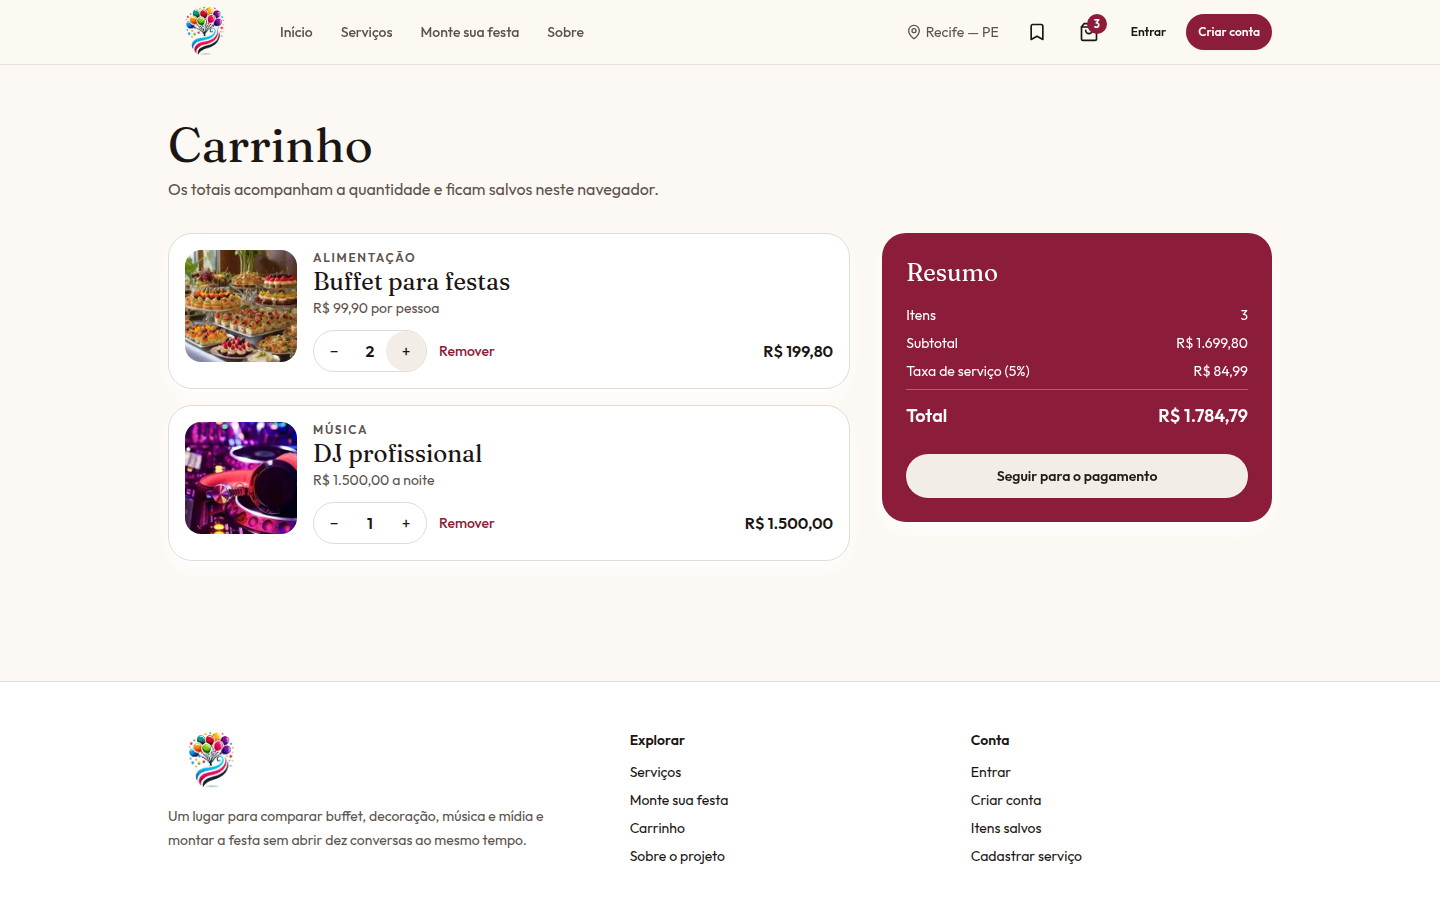
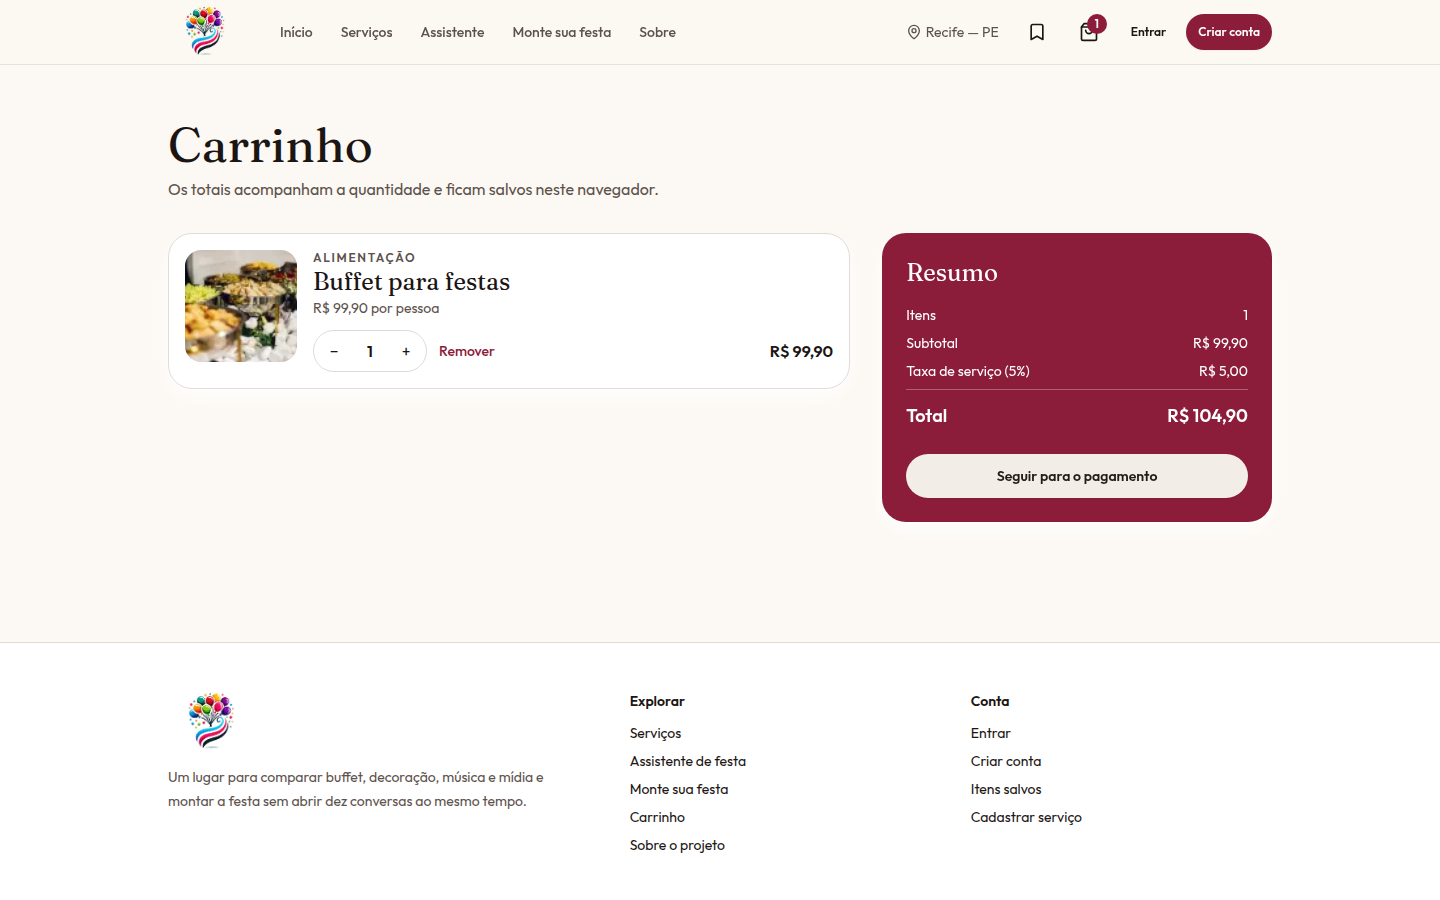
Troca as fotos do catálogo por imagens livres em WebP.
Cada serviço usa uma foto compatível com o que oferece, com crédito e licença em docs/image-credits.md. Cards, página do produto e o assistente leem as mesmas imagens.

diff --git a/src/data/catalog.ts b/src/data/catalog.ts
@@ -1,30 +1,23 @@
 import type { StaticImageData } from 'next/image';
-import {
-  Alimentacao,
-  Musica,
-  Musica2,
-  Decoracao,
-  Midia,
-  MidiaCard,
-  BuffetCard,
-  BuffetCard2,
-  BuffetCard3,
-  BuffetCard4,
-  BuffetCart2,
-  DoceCard,
-  DoceCard2,
-  SalgadoCard,
-  SalgadoCard2,
-  BarmanCard,
-  BarmanCard2,
-  HeinekenCard,
-  DJCard,
-  PlayCard,
-  PhotoCard,
-  ImgBalloons,
-  PartyHome,
-  ImgFesta
-} from 'assets';
+import buffet from '../assets/catalog/buffet.webp';
+import buffetTabua from '../assets/catalog/buffet-tabua.webp';
+import buffetPremium from '../assets/catalog/buffet-premium.webp';
+import sobremesa from '../assets/catalog/sobremesa.webp';
+import doces from '../assets/catalog/doces.webp';
+import docesCupcake from '../assets/catalog/doces-cupcake.webp';
+import salgados from '../assets/catalog/salgados.webp';
+import barman from '../assets/catalog/barman.webp';
+import cerveja from '../assets/catalog/cerveja.webp';
+import dj from '../assets/catalog/dj.webp';
+import banda from '../assets/catalog/banda.webp';
+import ambiente from '../assets/catalog/ambiente.webp';
+import karaoke from '../assets/catalog/karaoke.webp';
+import flores from '../assets/catalog/flores.webp';
+import baloes from '../assets/catalog/baloes.webp';
+import salao from '../assets/catalog/salao.webp';
+import foto from '../assets/catalog/foto.webp';
+import video from '../assets/catalog/video.webp';
+import social from '../assets/catalog/social.webp';
 import { normalizeText } from 'lib/format';
 
 export type CategoryId = 'alimentacao' | 'musica' | 'decoracao' | 'midia';
@@ -59,28 +52,28 @@ export const categories: Category[] = [
     id: 'alimentacao',
     label: 'Alimentação',
     href: '/subcategoria-alimentacao',
-    image: Alimentacao,
+    image: buffet,
     blurb: 'Buffet, doces, salgados e bar para o tamanho da sua mesa.'
   },
   {
     id: 'musica',
     label: 'Música',
     href: '/subcategoria-musica',
-    image: Musica,
+    image: dj,
     blurb: 'DJ, banda e som ambiente com equipamento incluso.'
   },
   {
     id: 'decoracao',
     label: 'Decoração',
     href: '/subcategoria-decoracao',
-    image: Decoracao,
+    image: salao,
     blurb: 'Flores, balões e ambientação no tom da festa.'
   },
   {
     id: 'midia',
     label: 'Mídia',
     href: '/subcategoria-midia',
-    image: Midia,
+    image: foto,
     blurb: 'Foto e filme para guardar a noite inteira.'
   }
 ];
@@ -98,8 +91,8 @@ export const products: Product[] = [
     unit: 'por pessoa',
     rating: 4.7,
     reviews: 32,
-    image: BuffetCard,
-    gallery: [BuffetCard, BuffetCard2, BuffetCard3, BuffetCard4],
+    image: buffet,
+    gallery: [buffet, buffetTabua, salgados],
     tags: ['Aniversário', 'Corporativo'],
     events: ['Aniversário', 'Corporativo', 'Confraternização']
   },
@@ -115,8 +108,8 @@ export const products: Product[] = [
     unit: 'por pessoa',
     rating: 4.9,
     reviews: 18,
-    image: BuffetCart2,
-    gallery: [BuffetCart2, BuffetCard3, BuffetCard2],
+    image: buffetPremium,
+    gallery: [buffetPremium, sobremesa],
     tags: ['Casamento'],
     events: ['Casamento', 'Aniversário']
   },
@@ -132,8 +125,8 @@ export const products: Product[] = [
     unit: 'o combo',
     rating: 4.6,
     reviews: 21,
-    image: DoceCard,
-    gallery: [DoceCard, DoceCard2],
+    image: doces,
+    gallery: [doces, docesCupcake],
     tags: ['Aniversário', 'Infantil'],
     events: ['Aniversário', 'Infantil']
   },
@@ -149,8 +142,8 @@ export const products: Product[] = [
     unit: 'o combo',
     rating: 4.5,
     reviews: 27,
-    image: SalgadoCard,
-    gallery: [SalgadoCard, SalgadoCard2],
+    image: salgados,
+    gallery: [salgados, buffetTabua],
     tags: ['Aniversário', 'Corporativo'],
     events: ['Aniversário', 'Corporativo']
   },
@@ -166,25 +159,25 @@ export const products: Product[] = [
     unit: 'por 4 horas',
     rating: 4.8,
     reviews: 14,
-    image: BarmanCard,
-    gallery: [BarmanCard, HeinekenCard],
+    image: barman,
+    gallery: [barman],
     tags: ['Aniversário', 'Casamento'],
     events: ['Aniversário', 'Casamento']
   },
   {
     id: 'caixas-heineken',
-    title: 'Caixas Heineken',
+    title: 'Cerveja gelada',
     category: 'alimentacao',
     categoryLabel: 'Alimentação',
     supplier: 'Gelada Recife',
     description:
-      'Caixa gelada para deixar na mesa ou no bar. Combina com o serviço de barman ou com um evento mais solto.',
+      'Cerveja servida gelada para a mesa ou para o bar. Combina com o serviço de barman ou com um evento mais solto.',
     price: 49.9,
-    unit: 'a caixa',
+    unit: 'o copo',
     rating: 4.4,
     reviews: 11,
-    image: HeinekenCard,
-    gallery: [HeinekenCard, BarmanCard2],
+    image: cerveja,
+    gallery: [cerveja],
     tags: ['Aniversário'],
     events: ['Aniversário', 'Confraternização']
   },
@@ -200,8 +193,8 @@ export const products: Product[] = [
     unit: 'a noite',
     rating: 4.8,
     reviews: 19,
-    image: DJCard,
-    gallery: [DJCard, Musica2],
+    image: dj,
+    gallery: [dj],
     tags: ['Aniversário', 'Casamento'],
     events: ['Aniversário', 'Casamento', 'Corporativo']
   },
@@ -217,8 +210,8 @@ export const products: Product[] = [
     unit: 'o set',
     rating: 4.9,
     reviews: 9,
-    image: Musica,
-    gallery: [Musica, Musica2],
+    image: banda,
+    gallery: [banda],
     tags: ['Casamento'],
     events: ['Casamento', 'Aniversário']
   },
@@ -234,8 +227,8 @@ export const products: Product[] = [
     unit: 'a festa',
     rating: 4.5,
     reviews: 8,
-    image: Musica2,
-    gallery: [Musica2, DJCard],
+    image: ambiente,
+    gallery: [ambiente],
     tags: ['Corporativo', 'Casamento'],
     events: ['Corporativo', 'Casamento']
   },
@@ -251,8 +244,8 @@ export const products: Product[] = [
     unit: 'por 4 horas',
     rating: 4.6,
     reviews: 12,
-    image: PlayCard,
-    gallery: [PlayCard, DJCard],
+    image: karaoke,
+    gallery: [karaoke],
     tags: ['Aniversário', 'Infantil'],
     events: ['Aniversário', 'Infantil']
   },
@@ -268,8 +261,8 @@ export const products: Product[] = [
     unit: 'o projeto',
     rating: 4.7,
     reviews: 16,
-    image: Decoracao,
-    gallery: [Decoracao, ImgBalloons],
+    image: flores,
+    gallery: [flores, salao],
     tags: ['Casamento', 'Aniversário'],
     events: ['Casamento', 'Aniversário']
   },
@@ -285,8 +278,8 @@ export const products: Product[] = [
     unit: 'o conjunto',
     rating: 4.6,
     reviews: 22,
-    image: ImgBalloons,
-    gallery: [ImgBalloons, Decoracao],
+    image: baloes,
+    gallery: [baloes],
     tags: ['Infantil', 'Aniversário'],
     events: ['Aniversário', 'Infantil']
   },
@@ -302,8 +295,8 @@ export const products: Product[] = [
     unit: 'o projeto',
     rating: 4.8,
     reviews: 7,
-    image: PartyHome,
-    gallery: [PartyHome, Decoracao, ImgBalloons],
+    image: salao,
+    gallery: [salao, flores, baloes],
     tags: ['Casamento', 'Corporativo'],
     events: ['Casamento', 'Corporativo']
   },
@@ -319,8 +312,8 @@ export const products: Product[] = [
     unit: 'a cobertura',
     rating: 4.9,
     reviews: 24,
-    image: PhotoCard,
-    gallery: [PhotoCard, ImgFesta],
+    image: foto,
+    gallery: [foto],
     tags: ['Casamento', 'Aniversário'],
     events: ['Casamento', 'Aniversário', 'Corporativo']
   },
@@ -336,8 +329,8 @@ export const products: Product[] = [
     unit: 'o filme',
     rating: 4.7,
     reviews: 10,
-    image: Midia,
-    gallery: [Midia, PhotoCard],
+    image: video,
+    gallery: [video],
     tags: ['Casamento'],
     events: ['Casamento', 'Aniversário']
   },
@@ -353,8 +346,8 @@ export const products: Product[] = [
     unit: 'o pacote',
     rating: 4.4,
     reviews: 13,
-    image: ImgFesta,
-    gallery: [ImgFesta, MidiaCard, PhotoCard],
+    image: social,
+    gallery: [social],
     tags: ['Aniversário', 'Corporativo'],
     events: ['Aniversário', 'Corporativo']
   }

diff --git a/src/app/create-party/page.tsx b/src/app/create-party/page.tsx
@@ -1,14 +1,8 @@
 'use client';
 
 import { useState } from 'react';
-import Image, { type StaticImageData } from 'next/image';
-import {
-  BuffetCard,
-  DJCard,
-  Decoracao,
-  ImgFesta,
-  PhotoCard
-} from 'assets';
+import Image from 'next/image';
+import { getProduct } from 'data/catalog';
 import PageShell from 'components/page-shell';
 import { Button } from 'components/ui/button';
 import { getServices } from 'services/getServices';
@@ -59,12 +53,18 @@ function matches(service: Service, category: (typeof groups)[number]) {
   return list.includes('Decoração') || list.includes('Lembrancinhas');
 }
 
-function artFor(category: (typeof groups)[number]): StaticImageData {
-  if (category === 'Alimentação') return BuffetCard;
-  if (category === 'Áudio Visual') return DJCard;
-  if (category === 'Entretenimento') return PhotoCard;
-  if (category === 'Local') return ImgFesta;
-  return Decoracao;
+function artFor(category: (typeof groups)[number]) {
+  const id =
+    category === 'Alimentação'
+      ? 'buffet-festas'
+      : category === 'Áudio Visual'
+        ? 'dj-profissional'
+        : category === 'Entretenimento'
+          ? 'fotografia'
+          : category === 'Local'
+            ? 'ambientacao'
+            : 'decoracao-classica';
+  return getProduct(id)!.image;
 }
 
 export default function CreateParty() {

diff --git a/docs/image-credits.md b/docs/image-credits.md
@@ -1,0 +1,29 @@
+# Créditos das fotos do catálogo
+
+As fotos em `src/assets/catalog/` ilustram os serviços da Easy Party. Cada arquivo é uma versão redimensionada em WebP do original. A licença da derivação é a mesma do original.
+
+Fotos marcadas como Unsplash License foram baixadas de `images.unsplash.com`. O arquivo não traz o nome de quem fotografou; a identificação é o id da foto. Licença: [Unsplash License](https://unsplash.com/license).
+
+As demais estão no Wikimedia Commons, várias republicadas a partir do Unsplash em CC0. CC BY-SA exige crédito e que a versão adaptada siga a mesma licença.
+
+| Arquivo | Uso no catálogo | Autoria | Licença | Página |
+| --- | --- | --- | --- | --- |
+| `buffet.webp` | Buffet para festas; categoria Alimentação | Unsplash, id `photo-1555244162-803834f70033` | [Unsplash License](https://unsplash.com/license) | [arquivo](https://images.unsplash.com/photo-1555244162-803834f70033) |
+| `buffet-tabua.webp` | Galeria do buffet e dos salgados | Unsplash, id `photo-1541529086526-db283c563270` | [Unsplash License](https://unsplash.com/license) | [arquivo](https://images.unsplash.com/photo-1541529086526-db283c563270) |
+| `buffet-premium.webp` | Buffet premium | Unsplash, id `photo-1414235077428-338989a2e8c0` | [Unsplash License](https://unsplash.com/license) | [arquivo](https://images.unsplash.com/photo-1414235077428-338989a2e8c0) |
+| `sobremesa.webp` | Galeria do buffet premium | Mantra Media | [CC0](http://creativecommons.org/publicdomain/zero/1.0/deed.en) | [Commons](https://commons.wikimedia.org/wiki/File:Gourmet_Dessert_(Unsplash).jpg) |
+| `doces.webp` | Combo de docinhos | Mayra (Maych), via Flickr | [CC BY-SA 2.0](https://creativecommons.org/licenses/by-sa/2.0/) | [Commons](https://commons.wikimedia.org/wiki/File:Brigadeiro.jpg) |
+| `doces-cupcake.webp` | Galeria de doces | Sheelah Brennan | [CC0](http://creativecommons.org/publicdomain/zero/1.0/deed.en) | [Commons](https://commons.wikimedia.org/wiki/File:Homemade_Cupcakes_(Unsplash).jpg) |
+| `salgados.webp` | Combo de salgados | Sasha | [CC0](http://creativecommons.org/publicdomain/zero/1.0/deed.en) | [Commons](https://commons.wikimedia.org/wiki/File:Tray_of_Hors_D%27oeuvres_(Unsplash).jpg) |
+| `barman.webp` | Barman João | Adam Jaime | [CC0](http://creativecommons.org/publicdomain/zero/1.0/deed.en) | [Commons](https://commons.wikimedia.org/wiki/File:Bartender_making_a_cocktail_(Unsplash).jpg) |
+| `cerveja.webp` | Cerveja gelada | Pawel Kadysz | [CC0](http://creativecommons.org/publicdomain/zero/1.0/deed.en) | [Commons](https://commons.wikimedia.org/wiki/File:Man_holding_glass_of_beer_(Unsplash).jpg) |
+| `dj.webp` | DJ profissional; categoria Música | Marcela Laskoski | [CC0](http://creativecommons.org/publicdomain/zero/1.0/deed.en) | [Commons](https://commons.wikimedia.org/wiki/File:DJ_at_work_(Unsplash).jpg) |
+| `banda.webp` | Banda ao vivo | Austin Neill | [CC0](http://creativecommons.org/publicdomain/zero/1.0/deed.en) | [Commons](https://commons.wikimedia.org/wiki/File:Singer_In_Concert_(Unsplash).jpg) |
+| `ambiente.webp` | Música ambiente | Mariana Vusiatytska | [CC0](http://creativecommons.org/publicdomain/zero/1.0/deed.en) | [Commons](https://commons.wikimedia.org/wiki/File:Outdoor_acoustic_guitar_performance_(Unsplash).jpg) |
+| `karaoke.webp` | Karaokê | Kai Oberhäuser | [CC0](http://creativecommons.org/publicdomain/zero/1.0/deed.en) | [Commons](https://commons.wikimedia.org/wiki/File:Microphone_(Unsplash).jpg) |
+| `flores.webp` | Decoração clássica | Bhullargraphic | [CC BY-SA 4.0](https://creativecommons.org/licenses/by-sa/4.0) | [Commons](https://commons.wikimedia.org/wiki/File:Legant_table_setting_with_white_floral_centerpiece.jpg) |
+| `baloes.webp` | Balões e painel | Sofiya Levchenko | [CC0](http://creativecommons.org/publicdomain/zero/1.0/deed.en) | [Commons](https://commons.wikimedia.org/wiki/File:Party_balloons_(Unsplash).jpg) |
+| `salao.webp` | Ambientação completa; categoria Decoração | Sweet Ice Cream Photography | [CC0](http://creativecommons.org/publicdomain/zero/1.0/deed.en) | [Commons](https://commons.wikimedia.org/wiki/File:Wedding_reception_tables_and_benches_(Unsplash).jpg) |
+| `foto.webp` | Fotografia profissional; categoria Mídia | Joseph Chan | [CC0](http://creativecommons.org/publicdomain/zero/1.0/deed.en) | [Commons](https://commons.wikimedia.org/wiki/File:Photographer_focusing_camera_(Unsplash).jpg) |
+| `video.webp` | Filmagem do evento | Fvvdge | [CC BY-SA 4.0](https://creativecommons.org/licenses/by-sa/4.0) | [Commons](https://commons.wikimedia.org/wiki/File:Videographer-using-DSLR.jpg) |
+| `social.webp` | Cobertura para redes | James Sutton | [CC0](http://creativecommons.org/publicdomain/zero/1.0/deed.en) | [Commons](https://commons.wikimedia.org/wiki/File:Smartphone_photographer_(Unsplash).jpg) |

diff --git a/README.md b/README.md
@@ -211,6 +211,7 @@ Não invente métrica, prazo ou cargo.
 
 ## Links
 
+- Fotos do catálogo: [créditos e licenças](docs/image-credits.md)
 - Repositório: [github.com/iianmelo/easy-party-front](https://github.com/iianmelo/easy-party-front)
 - LinkedIn: [Ian Melo](https://www.linkedin.com/in/ian-melo-2340312a8/)
 - Aplicação local: [localhost:3000](http://localhost:3000) e [assistente](http://localhost:3000/assistente)
